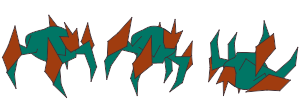
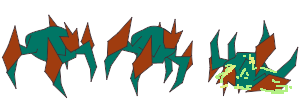
ftr(SpecEffects): add some effects

Changed region(s): [[0.72, 0.54, 0.93, 0.9], [0.87, 0.78, 0.99, 0.96]]

diff --git a/ldjam-55/src/game/SpecEffects.js b/ldjam-55/src/game/SpecEffects.js
@@ -1,0 +1,66 @@
+import Here from "../framework/Here.js";
+
+export default class SpecEffects {
+
+    /** @type {Phaser.GameObjects.Group} */
+    _pool;
+
+    constructor() {
+        const me = this;
+
+        me._pool = Here._.add.group();
+    }
+
+    doBlood(x, y, isBig) {
+        const me = this;
+
+        const blood = me._pool.create(x, y, 'blood', 0).play('blood');
+        if (!isBig)
+            blood.setScale(0.5);
+
+        blood.tween = Here._.tweens.add({
+            targets: blood,
+            x: blood.x,
+            duration: 500,
+            onComplete: () => {
+                blood.tween = null;
+                me._pool.killAndHide(blood);
+            }
+        })
+    }
+
+    addMoney(money) {
+        const me = this;
+
+        const frame = money == 1 ? 0 : (money == 100 ? 1 : 2);
+        const sprite = me._pool.create(4245, 25, 'moneyEffect', frame);
+        sprite.tween = Here._.tweens.add({
+            targets: sprite,
+            y: 125,
+            duration: 1000,
+            alpha: { from: 0.5, to: 1 },
+            ease: 'Sine.easeIn',
+            onComplete: () => {
+                sprite.tween = null;
+                me._pool.killAndHide(sprite);
+            }
+        });
+    }
+
+    doDismorale() {
+        const me = this;
+
+        const sprite = me._pool.create(2200, 330, 'dismorale');
+        sprite.tween = Here._.tweens.add({
+            targets: sprite,
+            y: 630,
+            duration: 1500,
+            alpha: { from: 1, to: 0.5 },
+            ease: 'Sine.easeOut',
+            onComplete: () => {
+                sprite.tween = null;
+                me._pool.killAndHide(sprite);
+            }
+        });
+    }
+}

diff --git a/ldjam-55/src/scenes/GameScene.js b/ldjam-55/src/scenes/GameScene.js
@@ -39,9 +39,11 @@ export default class GameScene extends HereScene {
         Utils.loadSpriteSheet('insect', 100);
         Utils.loadSpriteSheet('shield', 100);
         Utils.loadSpriteSheet('gun', 50, 100);
+        Utils.loadSpriteSheet('blood', 100);
 
         Utils.loadImage('busInterior');
         Utils.loadSpriteSheet('passengerInside', 50);
+        Utils.loadImage('dismorale');
 
         Utils.loadImage('moneyBox');
         Utils.loadSpriteSheet('buttons', 60);
@@ -50,6 +52,7 @@ export default class GameScene extends HereScene {
         Utils.loadSpriteSheet('panel', 300, 100);
         Utils.loadSpriteSheet('stratagems', 80);
         Utils.loadSpriteSheet('arrows', 40);
+        Utils.loadSpriteSheet('moneyEffect', 100, 50);
     }
 
     create() {

diff --git a/ldjam-55/src/game/Components.js b/ldjam-55/src/game/Components.js
@@ -1,6 +1,7 @@
 import InteriorComponent from "./InteriorComponent.js";
 import MoneyComponent from "./MoneyComponent.js";
 import RoadComponent from "./RoadComponent.js";
+import SpecEffects from "./SpecEffects.js";
 import StratagemComponent from "./StratagemComponent.js";
 
 export default class {
@@ -16,6 +17,8 @@ export default class {
 
     /** @type {StratagemComponent} */
     stratagem;
+
+    specEffects = new SpecEffects();
 
     update(delta) {
         const me = this;

diff --git a/ldjam-55/src/game/StratagemComponent.js b/ldjam-55/src/game/StratagemComponent.js
@@ -13,7 +13,7 @@ export default class StratagemComponent {
 
     state = {
         isActive: true,
-        money: 0,
+        money: 1000,
         arrowIndex: 0,
     }
 
@@ -140,6 +140,8 @@ export default class StratagemComponent {
 
         me.state.money += money;
         me._totalText.setText(`${me.state.money}¤`);
+
+        me._components.specEffects.addMoney(money);
     }
 
     _checkActivation() {

diff --git a/ldjam-55/src/framework/Animation.js b/ldjam-55/src/framework/Animation.js
@@ -36,6 +36,12 @@ export default class Animation {
             frames: Animation.getFrames('gun', [ 1, 2, 0 ]),
             frameRate: 8
         });
+
+        Here._.anims.create({
+            key: 'blood',
+            frames: 'blood',
+            frameRate: 16
+        });
     }
 
     static getFrames(texture, frames) {

diff --git a/ldjam-55/src/game/RoadComponent.js b/ldjam-55/src/game/RoadComponent.js
@@ -248,6 +248,8 @@ export default class RoadComponent {
         insect.stop();
         insect.setFrame(2);
         me._events.emit('moneyIncome', isBigInsect ? 100 : 1);    
+
+        me._components.specEffects.doBlood(insect.x, insect.y, isBigInsect);
     }
 
     _tryCreateInsects() {

diff --git a/ldjam-55/src/game/InteriorComponent.js b/ldjam-55/src/game/InteriorComponent.js
@@ -764,5 +764,7 @@ export default class InteriorComponent {
             if (!!passenger)
                 me._makeBadFeelengs(passenger, i);
         }
+
+        me._components.specEffects.doDismorale();
     }
 }
